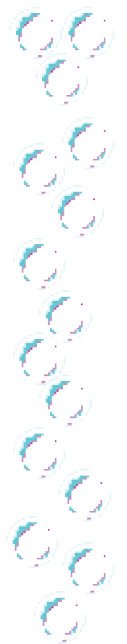
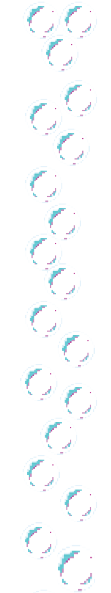
ฟองสบู่

diff --git a/src/Game/SceneDragon.java b/src/Game/SceneDragon.java
@@ -54,12 +54,6 @@ public class SceneDragon {
  
         rockLabels = new ArrayList<>();
         random = new Random();
-        Random random = new Random();
-        int a, b;
-        do {
-            a = random.nextInt(401) - 200;
-            b = random.nextInt(301) + a + 500;
-        } while (Math.abs(a - b) < 500);
         for (int i = 0; i < 2; i++) {
             for (int j = 0; j < 3; j++) {
                 int x = random.nextInt(600);
@@ -67,9 +61,11 @@ public class SceneDragon {
  
                 JLabel rockLabelTop = new JLabel(new ImageIcon("src/images/topRock.png"));
                 JLabel rockLabelLand = new JLabel(new ImageIcon("src/images/landRock.png"));
-                rockLabelTop.setBounds(700, a, 280, 285);
-                rockLabelLand.setBounds(700, b, 280, 305);
-
+ 
+                
+                rockLabelLand.setBounds(700, 500, 280, 305);
+                rockLabelTop.setBounds(700, 0, 280, 285);
+ 
                 rockLabels.add(rockLabelLand);
                 rockLabels.add(rockLabelTop);
  
@@ -160,12 +156,12 @@ public class SceneDragon {
             if (x + rockLabel.getWidth() == dragonLabel.getX()) {
                 dragonPassedRock = true;
             }
-
         }
  
         if (dragonPassedRock) {
-            sb.CountScore();
-            score.setText("Score: " + sb.getScore());
+        	int addedScore = sb.CountScore();
+        	sb.Max_Score();
+            score.setText("Score: " + addedScore);
         }
  
         // มังกรชนหินมั้ย
@@ -177,8 +173,8 @@ public class SceneDragon {
                 return;
             }
         }
-    }
- 
+   }
+        
  
 	private void gameOver() {
 		   JOptionPane.showMessageDialog(frame, "Game Over");

diff --git a/src/Game/SceneChubby.java b/src/Game/SceneChubby.java
@@ -49,10 +49,10 @@ public class SceneChubby {
                 int x = random.nextInt(600);
                 int y = random.nextInt(500);
  
-                JLabel chainLabelTop = new JLabel(new ImageIcon("src/images/topChain.png"));
-                JLabel chainLabelLand = new JLabel(new ImageIcon("src/images/landChain.png"));
+                JLabel chainLabelTop = new JLabel(new ImageIcon("src/images/bubbleTop.png"));
+                JLabel chainLabelLand = new JLabel(new ImageIcon("src/images/bubbleLand.png"));
                 
-                chainLabelTop.setBounds(700, -400, 150, 650);
+                chainLabelTop.setBounds(700, -170, 170, 450);
                 chainLabelLand.setBounds(700, 450, 150, 650); //x,y,width,height
                 
                 chainLabels.add(chainLabelLand);
